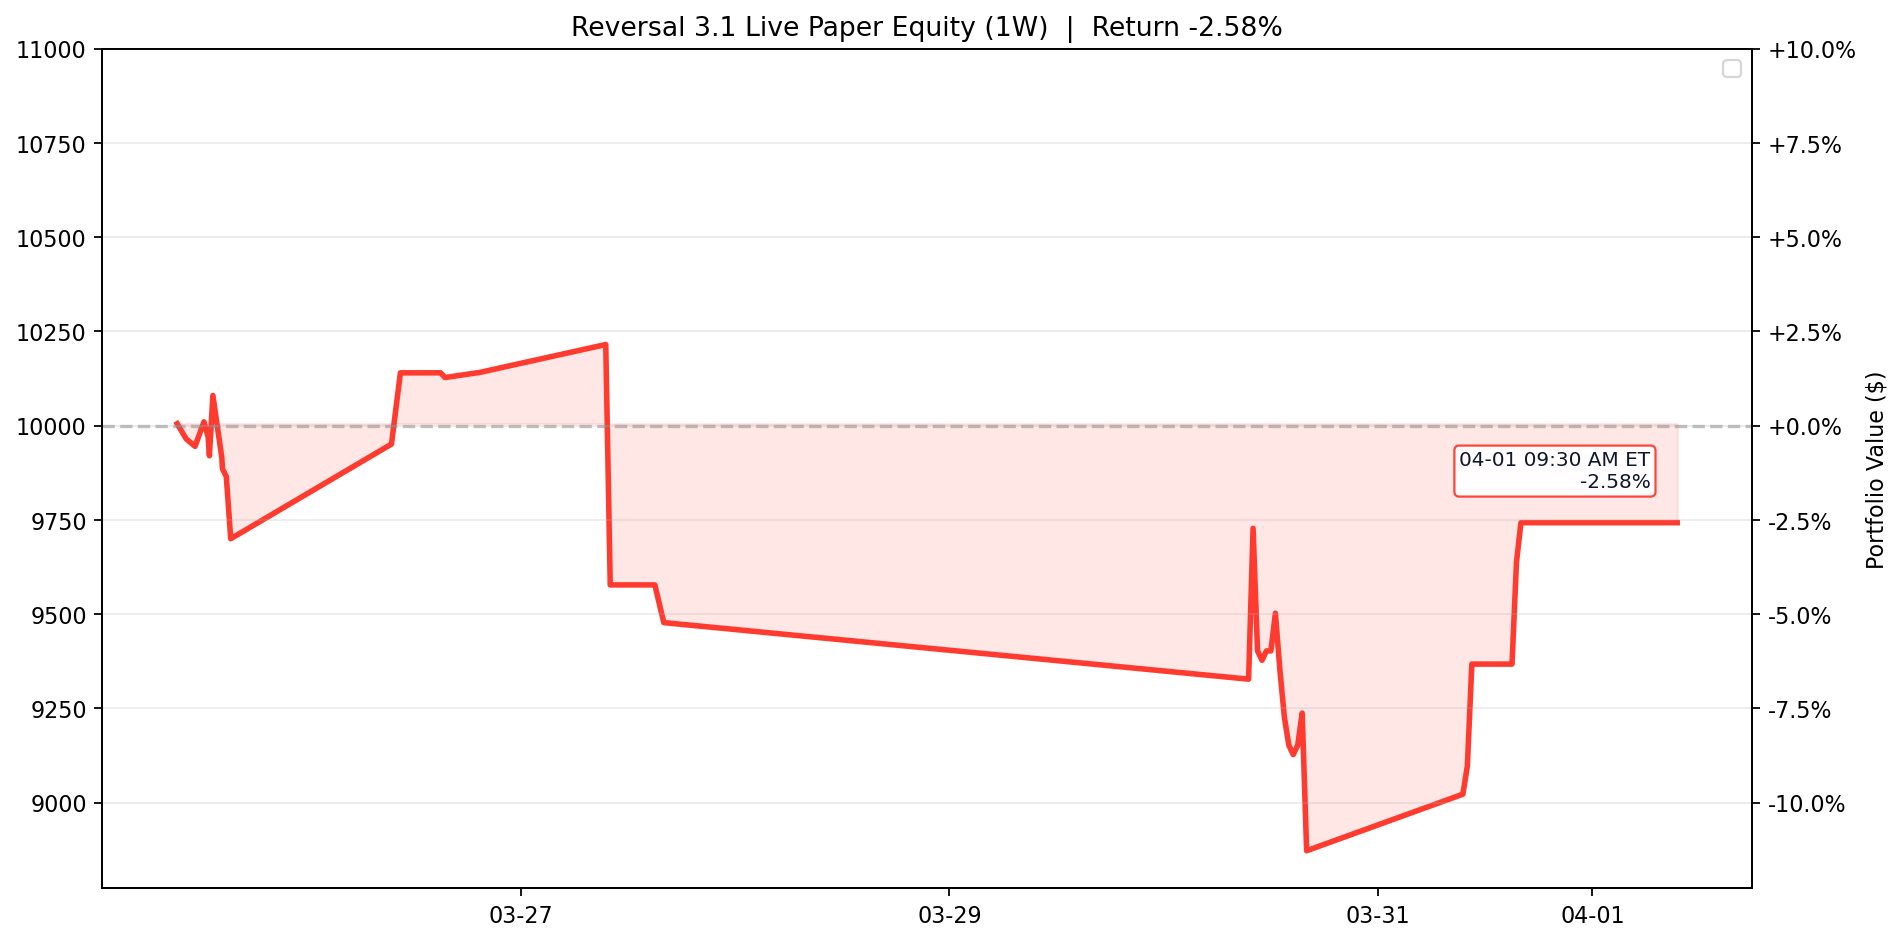
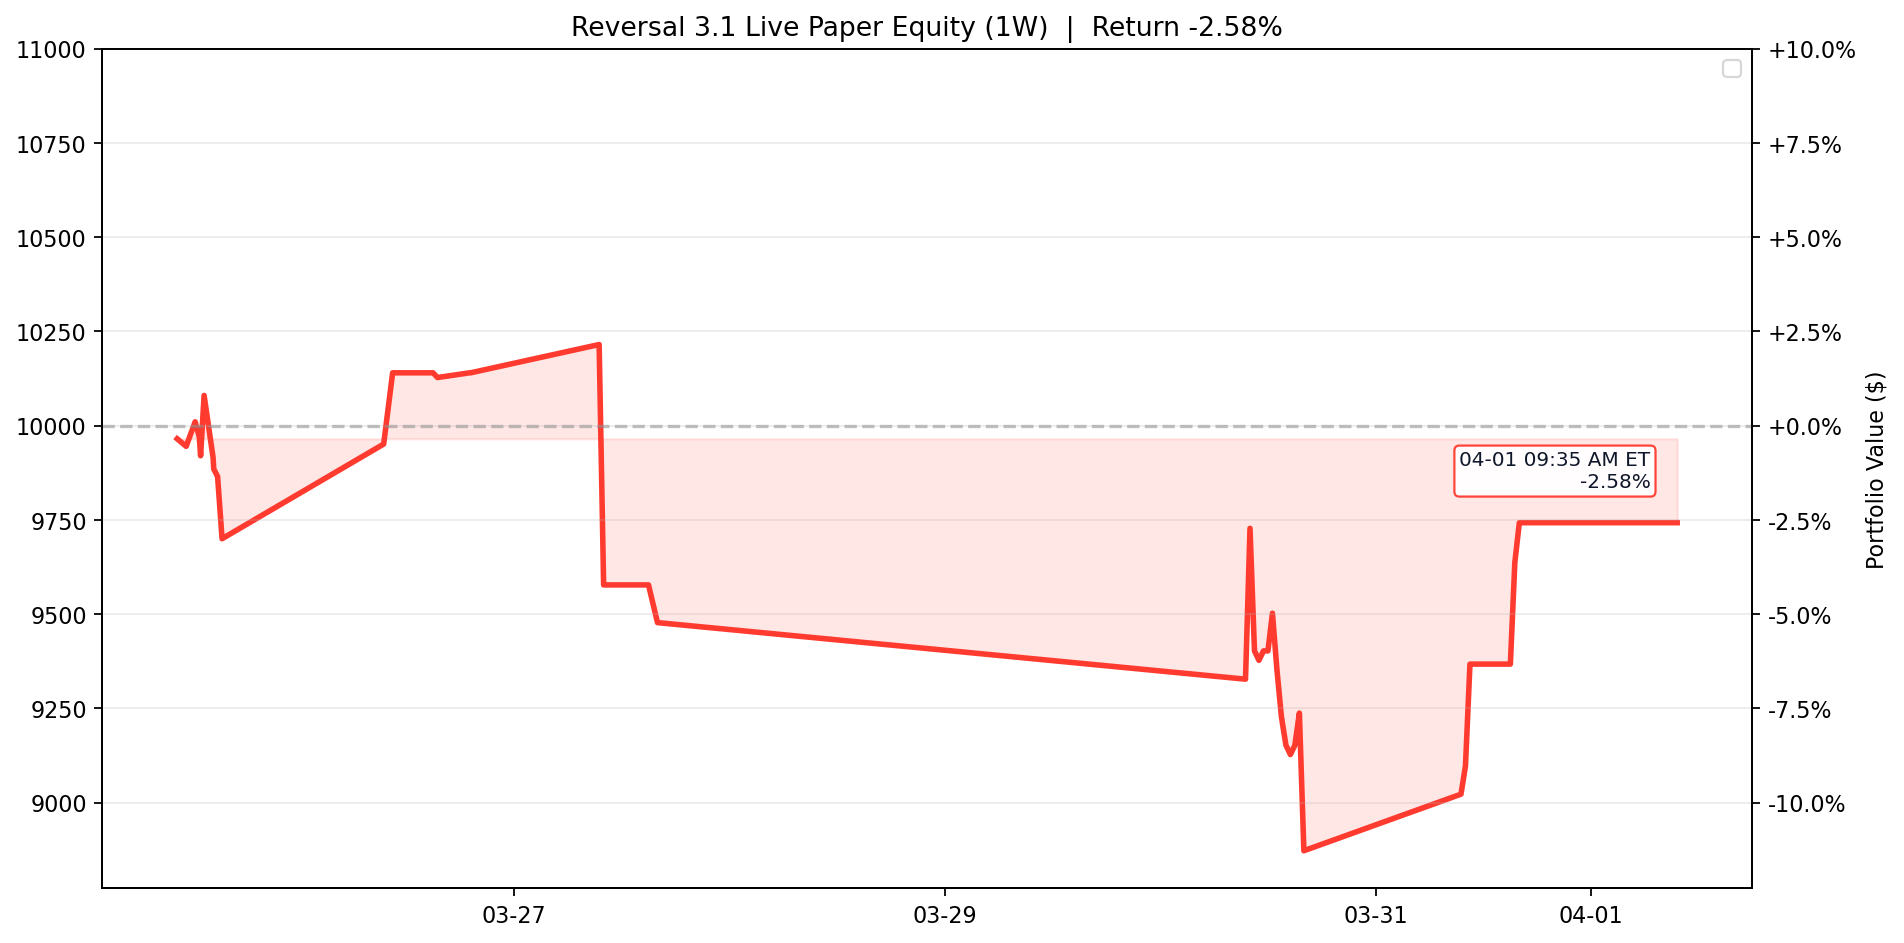
Update Reversal 3.1 live paper test 2026-04-01 09:35 ET

diff --git a/results/reversal_3_1_live/README.md b/results/reversal_3_1_live/README.md
@@ -1,6 +1,6 @@
 # Reversal 3.1 Live Paper Test
 
-Last updated (ET): `2026-04-01 09:30:00 EDT`
+Last updated (ET): `2026-04-01 09:35:00 EDT`
 Last processed slot: `manage_0930`
 
 ## Active Configuration
@@ -37,24 +37,25 @@ _None_
 
 ```text
 ticker  success_rate_%  matched_signals  current_drop_%  target_rebound_$  target_price  rolling_sigma_20d_%  call_candidate
-  FANG          100.00               20            1.42              1.96        196.95                24.73            True
-  FTNT           92.86               28            1.60              0.92         81.33                30.40            True
-   LIN           88.46               26            0.57              1.98        494.91                19.67            True
-   KDP           87.50               16            0.80              0.15         26.27                19.96            True
- CMCSA           85.19               27            0.86              0.17         28.31                29.02            True
-   EXC           83.33               18            0.69              0.24         48.92                21.40            True
-  CHTR           82.76               29            1.37              2.07        214.99                36.72            True
-   BKR           81.82               22            1.15              0.49         60.84                41.31            True
-  FAST           93.62               47            0.05              0.02         46.39                22.75           False
-   XEL           93.33               30            0.20              0.11         79.39                18.50           False
-   WMT           92.31               39            0.36              0.31        124.14                21.00           False
-   AEP           92.31               26            0.37              0.34        130.93                17.74           False
+  FANG          100.00               22            1.17              1.62        197.09                24.73            True
+  CTAS           88.89               27            0.76              0.90        168.75                28.13            True
+   BKR           87.88               33            0.57              0.24         60.95                41.31            True
+  CHTR           86.11               36            0.83              1.25        215.34                36.72            True
+ CMCSA           85.19               27            0.88              0.18         28.30                29.02            True
+   LIN           84.62               13            1.07              3.70        494.18                19.67            True
+  MDLZ           84.62               13            0.99              0.40         57.47                24.77            True
+  CTSH           83.33               30            1.04              0.45         61.16                25.11            True
+   KDP           83.33               12            1.14              0.21         26.24                19.96            True
+   PEP           82.35               17            0.78              0.85        154.93                18.57            True
+  NFLX           95.83               48            0.07              0.05         96.10                24.42           False
+  FTNT           94.00               50            0.11              0.06         81.69                30.40           False
 ```
 
 ## Recent Events
 
 ```text
                     timestamp_et         slot   event_type                                                                                                                                                                            detail
+2026-04-01T09:35:00.954357-04:00  manage_0930 slot_skipped                                                                                                                                                   {"reason": "already_processed"}
 2026-04-01T09:30:00.773757-04:00 data_refresh data_refresh                                                                                                                                                                     {'saved': 99}
 2026-03-31T23:23:03.138021-04:00  manage_1600 slot_skipped                                                                                                                                                   {"reason": "already_processed"}
 2026-03-31T23:23:03.138021-04:00 data_refresh data_refresh                                                                                                                                                                     {'saved': 99}
@@ -64,7 +65,6 @@ ticker  success_rate_%  matched_signals  current_drop_%  target_rebound_$  targe
 2026-03-31T09:30:05.890178-04:00 data_refresh data_refresh                                                                                                                                                                     {'saved': 97}
 2026-03-30T16:00:01.901878-04:00  manage_1600         exit                                                {"contract_symbol": "HON260501C00225000", "pnl": -600.0, "reason": "stop_loss_hit_at_scan", "return_pct": -13.04, "ticker": "HON"}
 2026-03-30T15:00:04.861501-04:00   entry_1500        entry  {"allocated_cash": 3450.0, "contract_symbol": "FANG260515C00200000", "contracts": 3, "entry_option_price": 11.5, "matched_signals": 15, "success_rate": 100.0, "ticker": "FANG"}
-2026-03-27T15:00:04.241996-04:00   entry_1500        entry     {"allocated_cash": 4600.0, "contract_symbol": "HON260501C00225000", "contracts": 5, "entry_option_price": 9.2, "matched_signals": 20, "success_rate": 100.0, "ticker": "HON"}
 ```
 
 ## Equity Curve (1W)

diff --git a/README.md b/README.md
@@ -3,7 +3,7 @@
 <!-- reversal-3.1-live:start -->
 ## Reversal 3.1 Live Paper Test
 
-- Last updated (ET): `2026-04-01 09:30:00 EDT`
+- Last updated (ET): `2026-04-01 09:35:00 EDT`
 - Equity: `$9,742.50` | Realized: `$-257.50` | Unrealized: `$0.00` | Open positions: `0`
 - Today closed trades: `0`
 - Current slot: `manage_0930`
